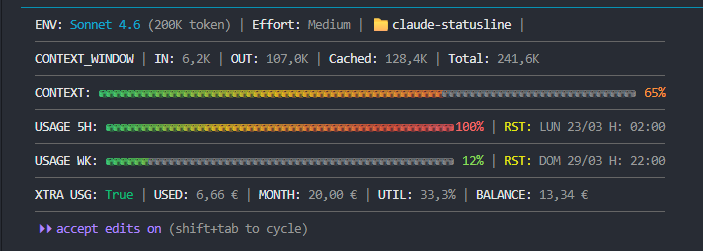
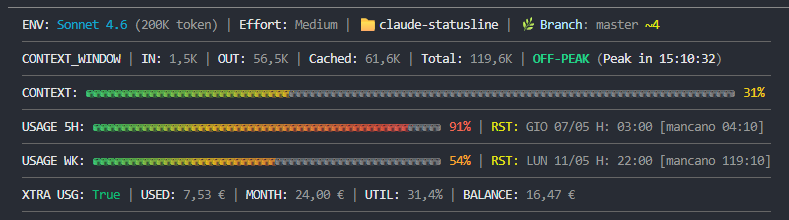
Add peak/off-peak indicator to line 2 with DST-aware ET countdown
- All three variants: show PEAK/OFF-PEAK state in bold on line 2 with
  countdown HH:MM:SS to next state change (Mon-Fri 08:00-14:00 ET)
- State label red during peak, green during off-peak; parenthetical
  label flips (e.g. "PEAK (Off-peak in 01:23:45)")
- Bold via ANSI \033[1m, reset via existing cReset/cR
- README: update Line 2 format, add feature #11, document new PEAK_TZ /
  PEAK_START_HOUR / PEAK_END_HOUR constants in all three config tables,
  add Line 2 subsection with segment table and color/countdown semantics

Changed region(s): [[0.0, 0.0273, 1.0, 0.9818]]

diff --git a/statusline.py b/statusline.py
@@ -14,7 +14,8 @@ import subprocess
 import sys
 import tempfile
 import time
-from datetime import datetime
+from datetime import datetime, timedelta
+from zoneinfo import ZoneInfo
 from pathlib import Path
 from typing import Dict, List, Optional, Tuple
 from urllib.request import Request, urlopen
@@ -32,6 +33,9 @@ _STDIN_MAX_BYTES = 1 * 1024 * 1024  # 1 MB — sanity cap on stdin payload
 _CRED_MAX_BYTES          = 64 * 1024        # 64 KB — credentials file is never legitimately large
 _API_RESPONSE_MAX_BYTES  = 1 * 1024 * 1024  # 1 MB — sanity cap on API response
 _SETTINGS_MAX_BYTES      = 256 * 1024       # 256 KB — settings files are never legitimately large
+PEAK_TZ          = 'America/New_York'  # Eastern Time (DST-aware via zoneinfo)
+PEAK_START_HOUR  = 8                   # ET hour — peak window start (inclusive)
+PEAK_END_HOUR    = 14                  # ET hour — peak window end (exclusive)
 
 CACHE_DIR         = Path(tempfile.gettempdir())
 USAGE_CACHE       = CACHE_DIR / 'claude_usage_cache.json'
@@ -204,6 +208,30 @@ def fmt_remaining(raw: str) -> str:
         return f' [{pre}{h:02d}:{m:02d}{post}]'
     except (ValueError, OverflowError, OSError):
         return ''
+
+
+def peak_info() -> tuple:
+    """Return (state, hms): 'PEAK'|'OFF-PEAK' and HH:MM:SS countdown to next state change."""
+    try:
+        now = datetime.now(ZoneInfo(PEAK_TZ))
+        wd  = now.weekday()  # 0=Mon … 4=Fri, 5=Sat, 6=Sun
+        hh  = now.hour
+        is_weekday = wd < 5
+        is_peak    = is_weekday and PEAK_START_HOUR <= hh < PEAK_END_HOUR
+        if is_peak:
+            nxt = now.replace(hour=PEAK_END_HOUR, minute=0, second=0, microsecond=0)
+        elif is_weekday and hh < PEAK_START_HOUR:
+            nxt = now.replace(hour=PEAK_START_HOUR, minute=0, second=0, microsecond=0)
+        else:
+            nxt = (now + timedelta(days=1)).replace(hour=PEAK_START_HOUR, minute=0, second=0, microsecond=0)
+            while nxt.weekday() >= 5:
+                nxt += timedelta(days=1)
+        delta = int(max(0, (nxt - now).total_seconds()))
+        h, rem = divmod(delta, 3600)
+        m, s   = divmod(rem, 60)
+        return ('PEAK', f'{h:02d}:{m:02d}:{s:02d}') if is_peak else ('OFF-PEAK', f'{h:02d}:{m:02d}:{s:02d}')
+    except Exception:
+        return ('OFF-PEAK', '00:00:00')
 
 
 def fmt_tokens(n: int) -> str:
@@ -526,8 +554,9 @@ def main() -> None:
     cR  = f'{E}[0m'    # reset
     cC  = f'{E}[36m'   # cyan
     cG  = f'{E}[32m'   # green
-    cY  = f'{E}[33m'   # yellow
-    cGr = f'{E}[90m'   # gray
+    cY   = f'{E}[33m'   # yellow
+    cRed = f'{E}[31m'   # red
+    cGr  = f'{E}[90m'   # gray
     cW  = f'{E}[37m'   # white
     cBr = f'{E}[38;2;186;230;253m'   # branch (light blue)
     cOr = f'{E}[38;2;255;165;0m'     # orange
@@ -576,6 +605,11 @@ def main() -> None:
     extra_color = cG if extra_usage is True else cOr
     extra_label = 'True' if extra_usage is True else 'False'
 
+    _peak_state, _peak_hms = peak_info()
+    _peak_clr = cRed if _peak_state == 'PEAK' else cG
+    _peak_lbl = 'Off-peak' if _peak_state == 'PEAK' else 'Peak'
+    _peak_seg = f' | {_peak_clr}\033[1m{_peak_state}\033[0m{cR} ({cW}{_peak_lbl} in {_peak_hms}{cR})'
+
     # 11. Output — 6 lines + separators
     # Collect everything into a list and do a single write to minimise
     # system calls (one flush at the end)
@@ -591,7 +625,7 @@ def main() -> None:
         f' | {cW}IN:{cR} {fmt_tokens(tok_in)}'
         f' | {cW}OUT:{cR} {fmt_tokens(tok_out)}'
         f' | {cW}Cached:{cR} {fmt_tokens(tok_cached)}'
-        f' | {cW}Total:{cR} {fmt_tokens(tok_total)}\n',
+        f' | {cW}Total:{cR} {fmt_tokens(tok_total)}{_peak_seg}\n',
 
         f'{sep}\n',
 

diff --git a/README.md b/README.md
@@ -23,6 +23,7 @@ Claude Code Statusline is a high-performance terminal dashboard that provides re
   - [Statusline features](#statusline-features)
   - [Statusline output format](#statusline-output-format)
     - [Line 1 — session identity](#line-1--session-identity)
+    - [Line 2 — token counters & peak state](#line-2--token-counters--peak-state)
     - [Lines 3–5 — gradient bars](#lines-35--gradient-bars)
     - [Line 6 — extra usage](#line-6--extra-usage)
   - [Choose your variant](#choose-your-variant)
@@ -132,6 +133,7 @@ The core strength of this project is the perfect consistency between its three i
 | 8 | **Caching** | Every I/O-heavy operation is cached (TTL: 120 s API · 8 s git · 30 s effort) — the UI never blocks |
 | 9 | **Atomic writes** | Cache files written via temp → rename; never a partial read |
 | 10 | **Security** | stdin/file size caps, OAuth token control-character validation, no string interpolation into JSON |
+| 11 | **Peak / Off-peak indicator** | DST-aware Eastern Time window (Mon–Fri 08:00–14:00 ET); line 2 shows current state in colour + countdown to next transition |
 
 ---
 
@@ -141,7 +143,7 @@ All three variants produce **identical** output: 6 content lines separated by 90
 
 ```
 Line 1: ENV: <model> (<ctx>) | Effort: <level> | 📁 <dir> | 🌿 Branch: <name> +N~N
-Line 2: CONTEXT_WINDOW | IN: Xk | OUT: Xk | Cached: Xk | Total: Xk
+Line 2: CONTEXT_WINDOW | IN: Xk | OUT: Xk | Cached: Xk | Total: Xk | PEAK (Off-peak in HH:MM:SS)
 Line 3: CONTEXT:  [76-bucket gradient bar]  XX%
 Line 4: USAGE 5H: [49-bucket gradient bar]  XX% | RST: DDD dd/MM H: HH:mm
 Line 5: USAGE WK: [49-bucket gradient bar]  XX% | RST: DDD dd/MM H: HH:mm
@@ -158,6 +160,17 @@ Line 6: XTRA USG: True/False | USED: X.XX € | MONTH: X.XX € | UTIL: X% | BAL
 | `🌿 Branch: <name>` | `git branch --show-current` |
 | `+N` (green) | Staged files from `git status --porcelain` |
 | `~N` (yellow) | Unstaged modified files from `git status --porcelain` |
+
+### Line 2 — token counters & peak state
+
+| Segment | Description |
+|---------|-------------|
+| `CONTEXT_WINDOW` | Static label |
+| `IN / OUT / Cached / Total` | Session token counts, auto-formatted as `K` above 1 000 |
+| **`PEAK`** (red) | Current window Mon–Fri 08:00–14:00 ET — countdown shows time until off-peak |
+| **`OFF-PEAK`** (green) | Outside peak window — countdown shows time until next peak window opens |
+
+The state label is coloured **red** during peak and **green** during off-peak. The parenthetical label flips — when in **`PEAK`** it reads `Off-peak in HH:MM:SS`; when in **`OFF-PEAK`** it reads `Peak in HH:MM:SS`. DST is handled automatically via the system timezone database.
 
 ### Lines 3–5 — gradient bars
 
@@ -191,7 +204,7 @@ Monetary values use the system locale: Italian example `4,20 €`; US example `$
 |----------|--------------------|---------|
 | Windows (native) | [`statusline.ps1`](#powershell--windows) | PowerShell 5.1+ — ships with Windows, no install needed |
 | Linux / macOS / WSL | [`statusline.sh`](#bash--linux--macos--wsl) | bash 4+, jq, curl |
-| Any platform (Python) | [`statusline.py`](#python--all-platforms) | Python 3.8+ stdlib only, no packages |
+| Any platform (Python) | [`statusline.py`](#python--all-platforms) | Python 3.9+ stdlib only, no packages |
 
 All three scripts produce identical output. Pick one and follow the corresponding guide below.
 
@@ -261,12 +274,20 @@ Tunable constants are at the top of `statusline.ps1`. Defaults are suitable for 
 | `$ERROR_TTL` | `30` s | Back-off window after an API auth error |
 | `$API_TIMEOUT` | `3` s | HTTP request hard deadline |
 | `$GIT_SUBPROCESS_TIMEOUT` | `5` s | `git` subprocess hard deadline |
+| `$PEAK_TZ_WIN` | `"Eastern Standard Time"` | Windows TZ ID for peak-window calculation |
+| `$PEAK_TZ_IANA` | `"America/New_York"` | IANA TZ ID (PS Core on Linux/macOS) |
+| `$PEAK_START_HOUR` | `8` | ET hour — peak window start (inclusive) |
+| `$PEAK_END_HOUR` | `14` | ET hour — peak window end (exclusive) |
 
 ```powershell
 # statusline.ps1 — top of file
 $USAGE_TTL  = 120   # seconds
 $GIT_TTL    = 8     # seconds
 $EFFORT_TTL = 30    # seconds
+$PEAK_TZ_WIN     = "Eastern Standard Time"
+$PEAK_TZ_IANA    = "America/New_York"
+$PEAK_START_HOUR = 8
+$PEAK_END_HOUR   = 14
 ```
 
 **Tuning tips:** Increase `$GIT_TTL` (e.g. to `15`) on large repositories where `git status` is slow. Increase `$API_TIMEOUT` on metered connections.
@@ -373,12 +394,18 @@ Tunable constants are at the top of `statusline.sh`. Defaults are suitable for m
 | `ERROR_TTL` | `30` s | Back-off window after an API auth error |
 | `API_TIMEOUT` | `3` s | HTTP request hard deadline |
 | `GIT_SUBPROCESS_TIMEOUT` | `5` s | `git` subprocess hard deadline |
+| `PEAK_TZ` | `"America/New_York"` | IANA TZ ID for peak-window calculation (DST-aware) |
+| `PEAK_START_HOUR` | `8` | ET hour — peak window start (inclusive) |
+| `PEAK_END_HOUR` | `14` | ET hour — peak window end (exclusive) |
 
 ```bash
 # statusline.sh — top of file
 readonly USAGE_TTL=120
 readonly GIT_TTL=8
 readonly EFFORT_TTL=30
+readonly PEAK_TZ="America/New_York"
+readonly PEAK_START_HOUR=8
+readonly PEAK_END_HOUR=14
 ```
 
 **Tuning tips:** Increase `GIT_TTL` (e.g. to `15`) on large repositories where `git status` is slow. Increase `API_TIMEOUT` on metered connections.
@@ -509,12 +536,18 @@ Tunable constants are at the top of `statusline.py`. Defaults are suitable for m
 | `ERROR_TTL` | `30` s | Back-off window after an API auth error |
 | `API_TIMEOUT` | `3` s | HTTP request hard deadline |
 | `GIT_SUBPROCESS_TIMEOUT` | `5` s | `git` subprocess hard deadline |
+| `PEAK_TZ` | `'America/New_York'` | IANA TZ ID for peak-window calculation (DST-aware via `zoneinfo`) |
+| `PEAK_START_HOUR` | `8` | ET hour — peak window start (inclusive) |
+| `PEAK_END_HOUR` | `14` | ET hour — peak window end (exclusive) |
 
 ```python
 # statusline.py — top of file
 USAGE_TTL  = 120
 GIT_TTL    = 8
 EFFORT_TTL = 30
+PEAK_TZ         = 'America/New_York'
+PEAK_START_HOUR = 8
+PEAK_END_HOUR   = 14
 ```
 
 **Tuning tips:** Increase `GIT_TTL` (e.g. to `15`) on large repositories where `git status` is slow. Increase `API_TIMEOUT` on metered connections.
